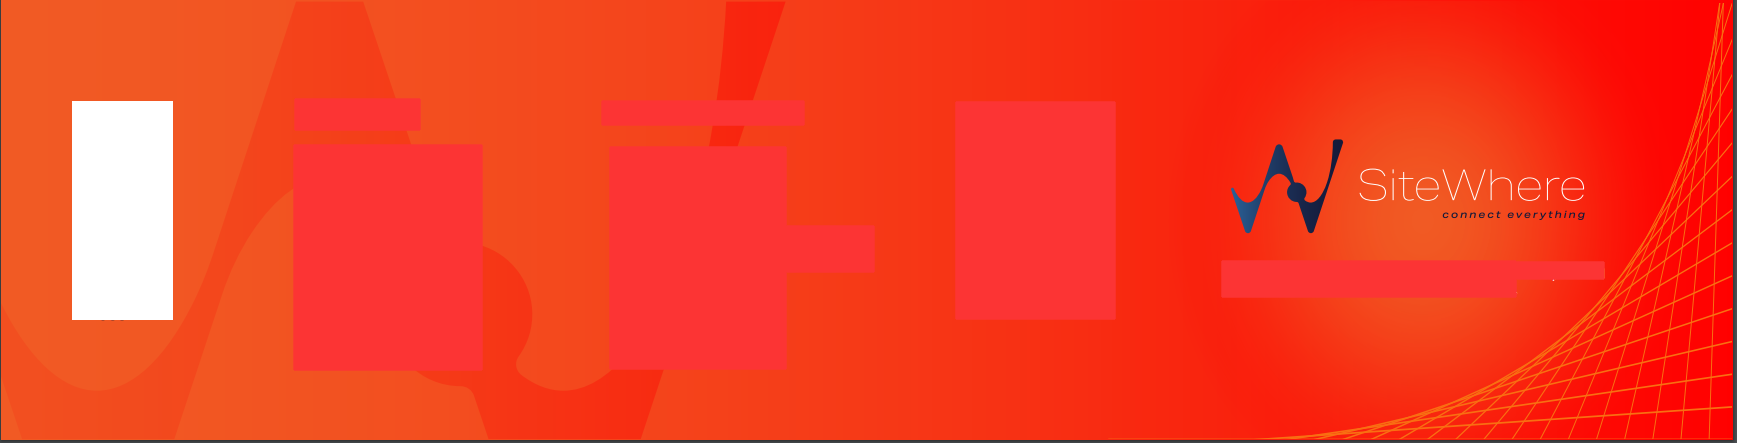
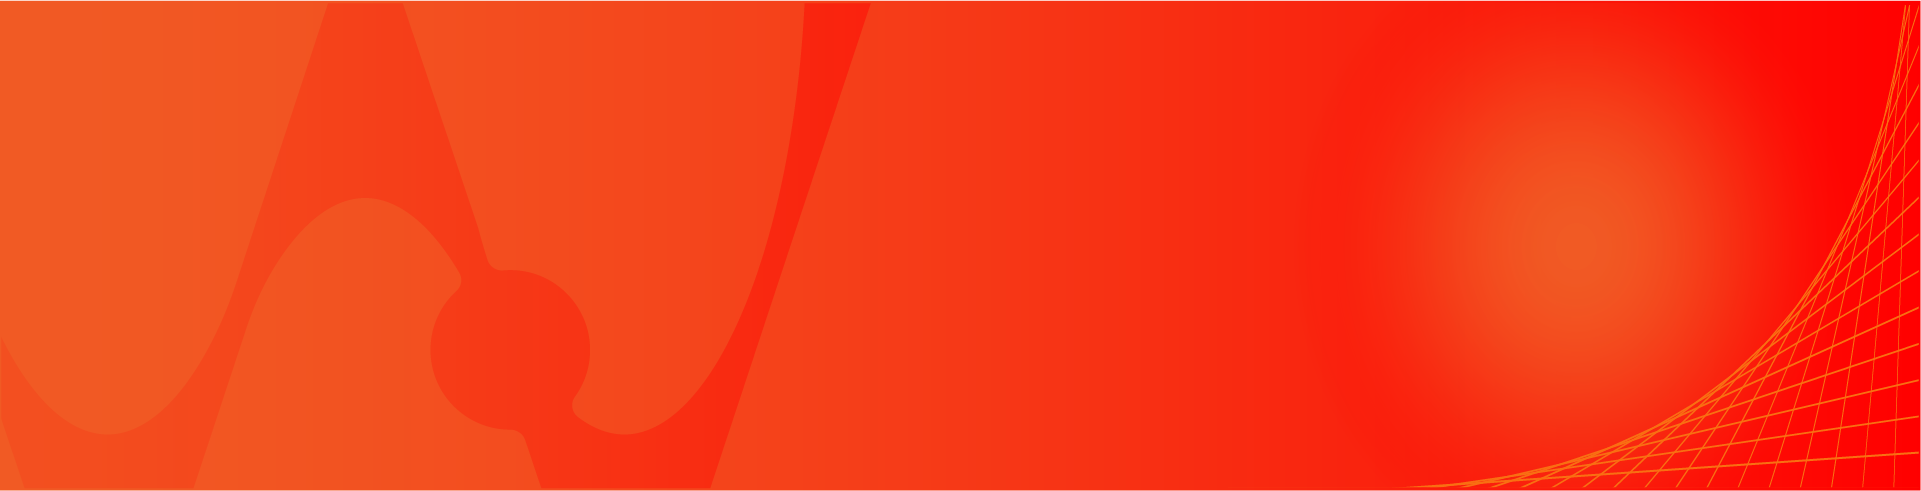
add background images

diff --git a/assets/scss/_code.scss b/assets/scss/_code.scss
@@ -87,13 +87,12 @@
     height: 100vh;
 }
 .seventh-background {
-   // background-image:url('/images/background/seventh_background.png');
-    //background: transparent linear-gradient(0deg, #1B1432 0%, #151A3A 100%) 0% 0% no-repeat padding-box;
+    background-image:url('/images/background/seventh_background.png');
     background-color: #151A3A;
     background-position: center;
     background-repeat: no-repeat;
     background-size: cover;
-    height: 70vh;
+    height: 90vh;
 }
 
 // section -1

diff --git a/assets/scss/_variables_project.scss b/assets/scss/_variables_project.scss
@@ -62,7 +62,7 @@ fonts home
 Style footer
  */
 .footer-color {
- background: transparent linear-gradient(90deg, #F15A24 0%, #F25221 18%, #F53D18 45%, #FA1C0B 77%, #FF0000 100%) no-repeat;
+ background-image:url('/images/background/footer_background.png');
  opacity: 1;
  min-height: 400px;
 }
